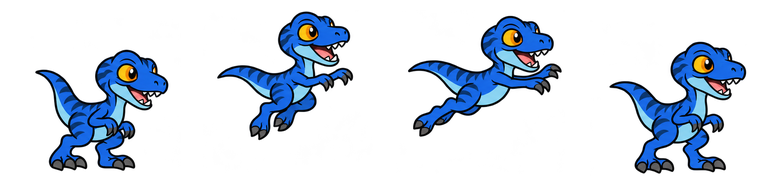
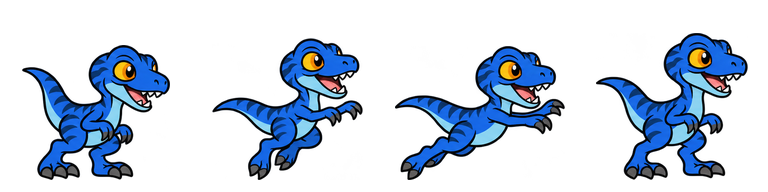
fix(kennyverse): align visible soles and ignore transparent edge noise

diff --git a/src/app/features/dinoverse/platformer/kenny-platformer.component.ts b/src/app/features/dinoverse/platformer/kenny-platformer.component.ts
@@ -325,7 +325,7 @@ export class KennyPlatformerComponent implements AfterViewInit, OnDestroy {
         ? this.skin
         : 'blue';
       const animation = state.motion === 'walk' ? 'walk' : 'attack';
-      element.style.backgroundImage = `url("kenny/animations/${skin}-${animation}.png")`;
+      element.style.backgroundImage = `url("kenny/animations/${skin}-${animation}.png?v=2")`;
       element.style.backgroundPosition = `${(state.frame * 100) / 3}% 0`;
       element.style.animation = 'none';
     }

diff --git a/src/app/features/dinoverse/platformer/kenny-platformer.renderer.ts b/src/app/features/dinoverse/platformer/kenny-platformer.renderer.ts
@@ -34,7 +34,7 @@ export class KennyRenderer {
               resolve();
             };
             image.onerror = () => reject(new Error(`Sprite fehlt: ${name}`));
-            image.src = new URL(`kenny/animations/${name}.png`, document.baseURI).href;
+            image.src = new URL(`kenny/animations/${name}.png?v=2`, document.baseURI).href;
           }),
       ),
     ).then(() => undefined);

diff --git a/docs/DINO_ANIMATION.md b/docs/DINO_ANIMATION.md
@@ -46,7 +46,7 @@ Triceratops uses the same black-outlined cartoon style, four legs, an orange fri
 and ivory horns, in a 2×2 four-frame walk cycle. Stegosaurus uses a green body,
 amber back plates and a four-spiked tail, with a 4×2 walk / turn-and-tail-sweep atlas.
 No scene, text, baked checkerboard or ground shadows were requested. Runtime
-packing only trims transparent padding, scales and aligns cells; it does not
+packing trims padding using visible alpha above 32/255 (ignoring faint generated edge noise), scales and aligns cells; it does not
 invent motion, paint body parts or recolour generated artwork.
 
 ## Checks
